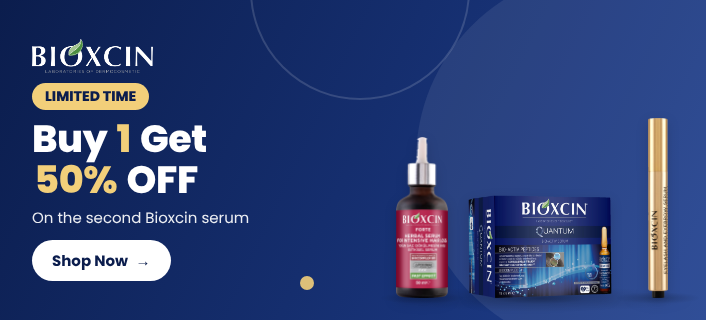
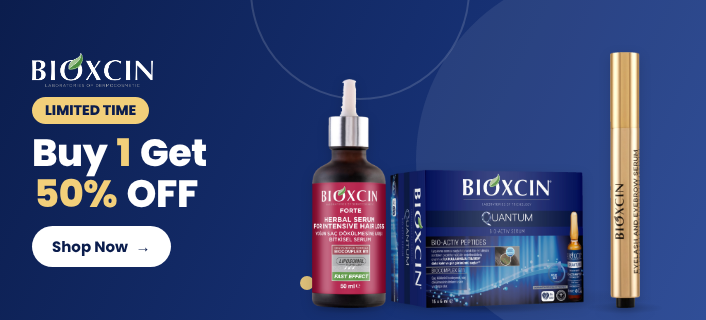
Offer 3: drop subtitle, enlarge products
Claude-Session: https://claude.ai/code/session_01MejyVmSq2aYVYmituLqweB

diff --git a/banners/banners.js b/banners/banners.js
@@ -59,7 +59,7 @@ function bannerHTML(offer, size, lang) {
   const showNames = size.id === "mobile-vertical-hero" || size.id === "desktop-hero";
   const code = offer.code?.[lang];
   return `
-    <div class="banner ${size.id} hl-${window.HL_STYLE || HEADLINE_STYLE} pat-${window.PATTERN_OVERRIDE || PATTERN} n${products.length}${products.length >= 5 ? " many" : ""}" dir="${lang === "ar" ? "rtl" : "ltr"}" lang="${lang}"
+    <div class="banner ${offer.id} ${size.id} hl-${window.HL_STYLE || HEADLINE_STYLE} pat-${window.PATTERN_OVERRIDE || PATTERN} n${products.length}${products.length >= 5 ? " many" : ""}" dir="${lang === "ar" ? "rtl" : "ltr"}" lang="${lang}"
          data-file="${offer.id}/${size.device}-${lang}-${size.w}x${size.h}.png"
          style="width:${size.w}px;height:${size.h}px;--from:${t.from};--to:${t.to};--accent:${t.accent};--text:${t.text}">
       <div class="deco deco-1"></div><div class="deco deco-2"></div><div class="deco deco-3"></div>
@@ -67,7 +67,7 @@ function bannerHTML(offer, size, lang) {
         ${logoHTML(lang)}
         <div class="badge">${txt(offer.badge[lang])}</div>
         <h2 class="headline">${txt(offer.headline[lang], "hl-num")}</h2>
-        <p class="sub">${txt(offer.sub[lang])}</p>
+        ${offer.sub[lang] ? `<p class="sub">${txt(offer.sub[lang])}</p>` : ""}
         <div class="actions">
           <span class="cta">${txt(offer.cta[lang])}<span class="arrow">${lang === "ar" ? "←" : "→"}</span></span>
           ${code ? `<span class="code">${txt(code)}</span>` : ""}

diff --git a/banners/banners.css b/banners/banners.css
@@ -360,3 +360,22 @@ img.logo { object-fit: contain; }
 .mobile-vertical-hero.n3 .product:nth-child(2) .product-media { height: 440px; }
 .mobile-hero .product-media img, .mobile-slim .product-media img { transform: scale(min(var(--z, 1), 1.15)); }
 .mobile-hero.n3 .product + .product { margin-inline-start: 4px; }
+
+/* offer 3: bigger products */
+.offer-3.desktop-hero .products { padding-top: 8px; padding-bottom: 8px; }
+.offer-3.desktop-hero .product { width: 200px; }
+.offer-3.desktop-hero .product-media { width: 190px; height: 240px; }
+.offer-3.mobile-hero .products { padding: 14px 0 12px; }
+.offer-3.mobile-hero .product-media { width: 120px; height: 280px; }
+.offer-3.mobile-hero .product:nth-child(2) .product-media { width: 150px; height: 280px; }
+.offer-3.mobile-slim .products { padding: 8px 0 6px; gap: 10px; }
+.offer-3.mobile-slim .product-media { width: 110px; height: 186px; }
+.offer-3.mobile-vertical-hero .products { gap: 24px; }
+.offer-3.mobile-vertical-hero .product { width: 230px; }
+.offer-3.mobile-vertical-hero .product-media,
+.offer-3.mobile-vertical-hero .product:nth-child(2) .product-media { width: 230px; height: 540px; }
+.offer-3.mobile-hero .copy { flex-basis: 260px; }
+.offer-3.mobile-hero .products { gap: 6px; }
+.offer-3.mobile-hero .product + .product { margin-inline-start: 0; }
+.offer-3.mobile-hero .product-media { width: 96px; height: 270px; }
+.offer-3.mobile-hero .product:nth-child(2) .product-media { width: 168px; height: 270px; }

diff --git a/banners/offers.js b/banners/offers.js
@@ -72,7 +72,7 @@ const OFFERS = [
     theme: { from: "#0b1d4d", to: "#1f3f8f", accent: "#f2cf7a", text: "#ffffff" },
     badge: { en: "LIMITED TIME", ar: "لفترة محدودة" },
     headline: { en: "Buy 1 Get 50% OFF", ar: "اشترِ 1 واحصل على خصم 50%" },
-    sub: { en: "On the second Bioxcin serum", ar: "على منتج بيوكسين الثاني" },
+    sub: { en: "", ar: "" },
     cta: { en: "Shop Now", ar: "تسوّق الآن" },
     code: { en: "", ar: "" },
     products: [
